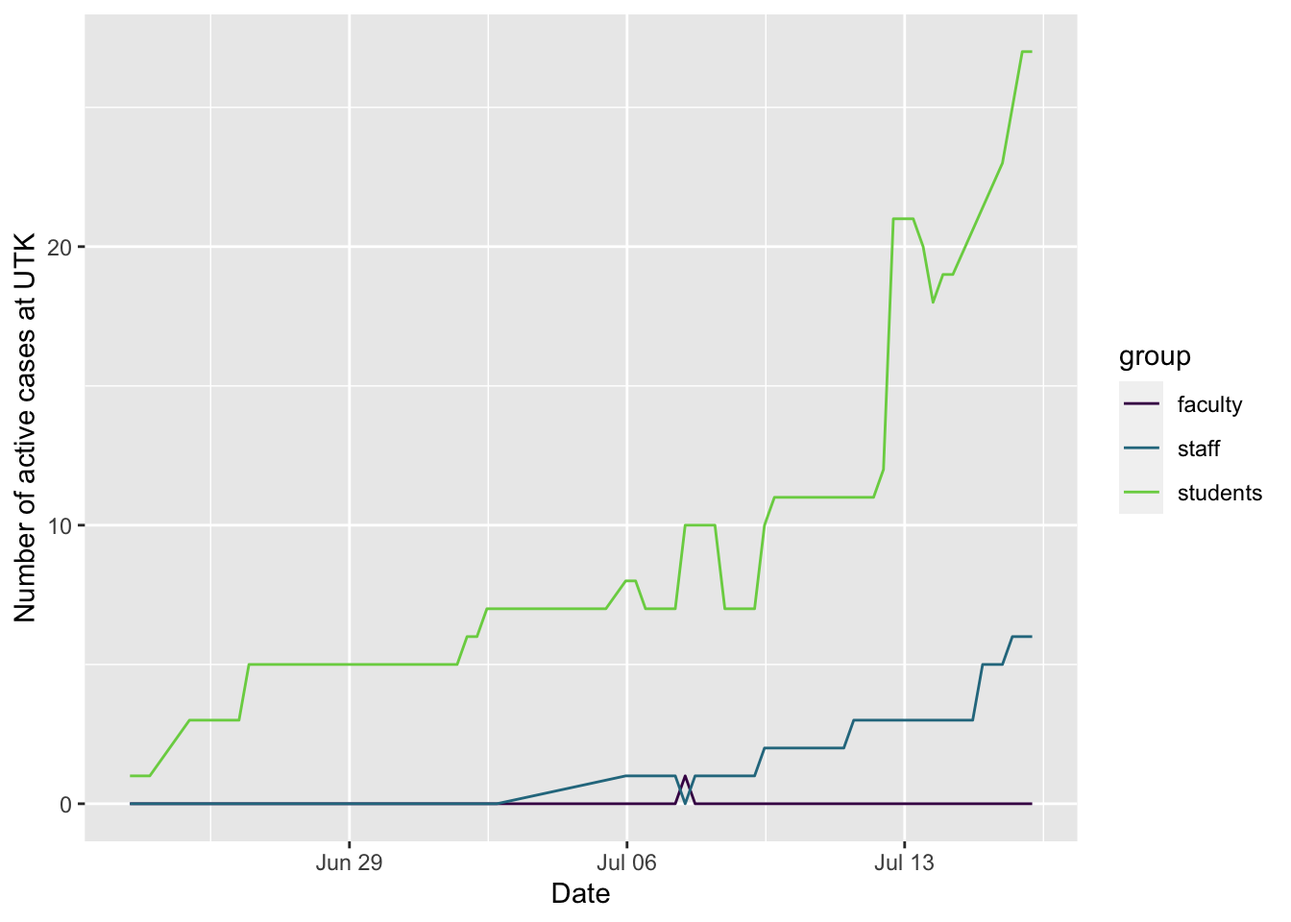
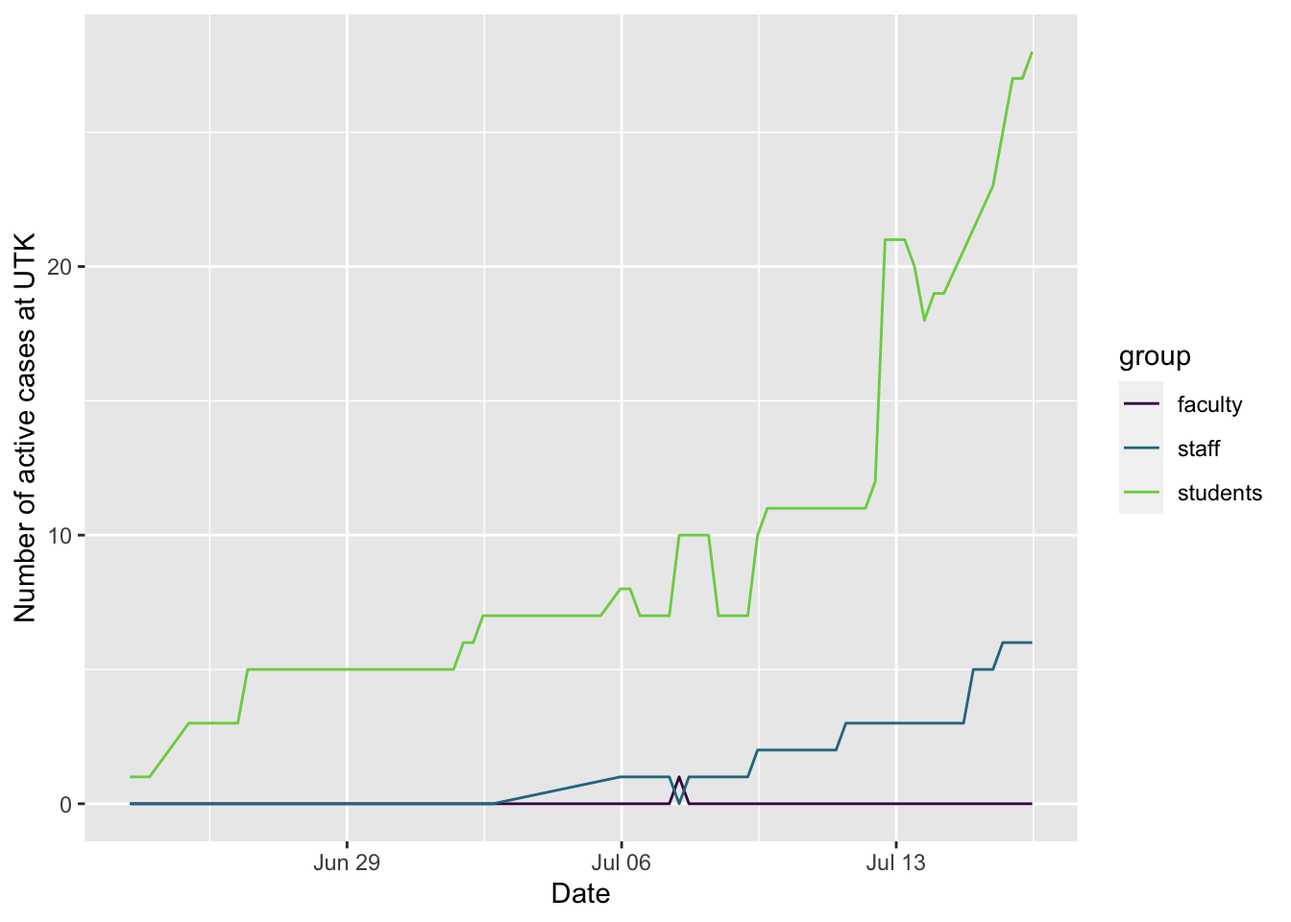
updating site

diff --git a/docs/general.html b/docs/general.html
@@ -13,7 +13,6 @@
 
 <title>General</title>
 
-<script src="site_libs/header-attrs-2.2/header-attrs.js"></script>
 <script src="site_libs/jquery-1.11.3/jquery.min.js"></script>
 <meta name="viewport" content="width=device-width, initial-scale=1" />
 <link href="site_libs/bootstrap-3.3.5/css/bootstrap.min.css" rel="stylesheet" />
@@ -402,7 +401,7 @@ $(document).ready(function () {
 <h2>Research</h2>
 <p>A major duty of a science professor, especially at a research-intensive place like U. of Tennessee, Knoxville, is to expand human knowledge through her or his research efforts. I work in a variety of areas to do this.</p>
 <ul>
-<li><p><strong>Species discovery</strong>: One area is figuring out how many species are actually present within a group. We often think of new species being discovered by, say, <a href="https://en.wikipedia.org/wiki/Marjorie_Courtenay-Latimer#Discovery_of_the_coelacanth">an astute observer seeing a weird fish in a market</a>, or on an expedition to a remote area of the jungle, but in fact many new species are discovered as a result of data showing that what we thought was one species was actually two different species with limited or no interbreeding: see examples of <a href="http://voices.nationalgeographic.com/2013/12/20/new-species-animals-tapir-brazil/">tapirs</a> or even <a href="http://news.nationalgeographic.com/news/2010/12/101222-african-elephants-two-species-new-science/">African elephants</a>. I develop some of the techniques we use to make these discoveries. This matters for basic biology: it is hard for scientists to communicate information without having names for biologically meaningful groups, and it is important to understand what leads to and maintains separate groups, but it also matters in the applied area: it is hard to conserve species properly if we do not recognize what they are (we might wipe out a species that we didn’t realize was independent, or might devote resources to saving a "species’ that is actually just a variant of a common species and lose another species due to finite resources).</p></li>
+<li><p><strong>Species discovery</strong>: One area is figuring out how many species are actually present within a group. We often think of new species being discovered by, say, <a href="https://en.wikipedia.org/wiki/Marjorie_Courtenay-Latimer#Discovery_of_the_coelacanth">an astute observer seeing a weird fish in a market</a>, or on an expedition to a remote area of the jungle, but in fact many new species are discovered as a result of data showing that what we thought was one species was actually two different species with limited or no interbreeding: see examples of <a href="http://voices.nationalgeographic.com/2013/12/20/new-species-animals-tapir-brazil/">tapirs</a> or even <a href="http://news.nationalgeographic.com/news/2010/12/101222-african-elephants-two-species-new-science/">African elephants</a>. I develop some of the techniques we use to make these discoveries. This matters for basic biology: it is hard for scientists to communicate information without having names for biologically meaningful groups, and it is important to understand what leads to and maintains separate groups, but it also matters in the applied area: it is hard to conserve species properly if we do not recognize what they are (we might wipe out a species that we didn’t realize was independent, or might devote resources to saving a &quot;species’ that is actually just a variant of a common species and lose another species due to finite resources).</p></li>
 <li><p>I also develop methods for <strong>looking at past history of life</strong>. For example, we have methods that can give information about how species have multiplied through time: do they exchange genes for a long time, has their population crashed at some point in the past, etc. This helps us understand how the current world came to be, but also may be useful in predicting what will happen as life and the environment continue to change.</p></li>
 <li><p>One major research focus has been developing approaches for looking at <strong>how and why traits change over time</strong>. For example, if you look in many environments you see more flowering plants than nonflowering plants like pines and ferns – why is this? Or questions like, once most of the dinosaurs (birds survived) went extinct, did mammals’ body size rapidly increase or was it gradual?</p></li>
 <li><p>One way I accomplish my research goals, as well as help others, is by <strong>writing software</strong>. It’s one thing to have an idea of how to solve a problem, but if you write a program to do this, then you and others can actually use the method to solve a problem. My software is free and open source. This means anyone can use it without paying me money (which makes sense, as my work has already been directly or indirectly paid for by taxpayers). It also means that anyone can look inside the software to see how it works. For example, <a href="https://github.com/bomeara/brownie/blob/master/brownie.cpp">here</a> is an example of some of the code I wrote as a grad student; you can see how people have used it by looking at <a href="https://scholar.google.com/scholar?oi=bibs&amp;hl=en&amp;cites=9860338757215931909">the hundreds of articles that cite it</a> (though some are citing just the method, not using the software itself). Another important aspect of open source software is that not only can you look at it, you can build on it to make new software, without needing my permission, as long as you make it clear that you’re reusing my software, give appropriate credit, and release your software under the same rules (allowing reuse, showing the code, etc.). Building on others’ work, while giving them credit, is one of the key ways science advances. Making software open also lets others check for errors and try to reproduce studies.</p></li>

diff --git a/docs/covid.html b/docs/covid.html
@@ -14,7 +14,6 @@
 
 <title>Local COVID data</title>
 
-<script src="site_libs/header-attrs-2.2/header-attrs.js"></script>
 <script src="site_libs/jquery-1.11.3/jquery.min.js"></script>
 <meta name="viewport" content="width=device-width, initial-scale=1" />
 <link href="site_libs/bootstrap-3.3.5/css/bootstrap.min.css" rel="stylesheet" />
@@ -412,7 +411,7 @@ $(document).ready(function () {
 <li><a href="https://projects.propublica.org/reopening-america/">ProPublica’s tracker of state status</a>. Click on the play button below their map to see how rates are changing over time, and dig into info on your state.</li>
 </ul>
 <hr />
-<p>Here are some plots, created in R using data from <a href="https://covid19datahub.io" class="uri">https://covid19datahub.io</a> (Guidotti, E., Ardia, D., (2020), “COVID-19 Data Hub”, Working paper, doi: 10.13140/RG.2.2.11649.81763), as well as information from Google and the <a href="https://www.tn.gov/health/cedep/ncov/data/downloadable-datasets.html">state of Tennessee dataset page</a> and plotting and analysis using the <code>forecast</code>, <code>ggplot2</code>, <code>reshape2</code>, and <code>dplyr</code> packages. It also uses the <a href="https://github.com/mtna/rds-r">rds-r</a> package from <a href="https://www.richdataservices.com/" class="uri">https://www.richdataservices.com/</a>. Plots created on 2020-07-16 10:50:12. I use <code>ggplot2</code>’s <code>geom_smooth()</code> function for the smoothed regression plots with its default formula, which uses loess smoothing for this many points. This is not based on a model of disease spread or anything similarly sophisticated, just drawing a smooth curve to summarize noisy points (see <a href="https://www.itl.nist.gov/div898/handbook/pmd/section1/pmd144.htm">here</a> for more details).</p>
+<p>Here are some plots, created in R using data from <a href="https://covid19datahub.io" class="uri">https://covid19datahub.io</a> (Guidotti, E., Ardia, D., (2020), “COVID-19 Data Hub”, Working paper, doi: 10.13140/RG.2.2.11649.81763), as well as information from Google and the <a href="https://www.tn.gov/health/cedep/ncov/data/downloadable-datasets.html">state of Tennessee dataset page</a> and plotting and analysis using the <code>forecast</code>, <code>ggplot2</code>, <code>reshape2</code>, and <code>dplyr</code> packages. It also uses the <a href="https://github.com/mtna/rds-r">rds-r</a> package from <a href="https://www.richdataservices.com/" class="uri">https://www.richdataservices.com/</a>. Plots created on 2020-07-16 12:34:03. I use <code>ggplot2</code>’s <code>geom_smooth()</code> function for the smoothed regression plots with its default formula, which uses loess smoothing for this many points. This is not based on a model of disease spread or anything similarly sophisticated, just drawing a smooth curve to summarize noisy points (see <a href="https://www.itl.nist.gov/div898/handbook/pmd/section1/pmd144.htm">here</a> for more details).</p>
 <p>The number of new and active cases should be not be going up if things are well-controlled, and ideally should be going down. The number of active cases is the number of positive cases minus the total of recovered or deceased cases: note it is from those tested and shown to be positive, but there are likely more people with covid who have not been tested. This uses data from <a href="https://www.tn.gov/health/cedep/ncov/data/downloadable-datasets.html" class="uri">https://www.tn.gov/health/cedep/ncov/data/downloadable-datasets.html</a>. Note that the number of active cases in Knox County reported by the state differs from the <a href="https://covid.knoxcountytn.gov/case-count.html#covid_data">county website</a>, sometimes dramatically (on June 16, the county website said 102 active cases, while the state says 178, for example) – I suspect this is based on the number of recovered cases not being updated as quickly in the state data, but I do not know. Knox County does not seem to offer a download of their data through time, so I am using the state’s data. The number of new cases per day seems to align fairly well, but not perfectly, between the state and county data, too.</p>
 <p>I plot three regions</p>
 <ul>
@@ -428,6 +427,11 @@ $(document).ready(function () {
 <p><img src="covid_files/figure-html/plotsB2-1.png" width="672" /></p>
 <p>Another way to look at testing (or disease spread) is to look at the proportion of positive tests (“positivity rate”): they can go up if a greater proportion of symptomatic people are being tested and/or if the frequency of the disease is increasing. Updated WHO guidelines recommend testing should be 5% positive or lower (black line).</p>
 <p><img src="covid_files/figure-html/plotsB3-1.png" width="672" /></p>
+<hr />
+<h2>
+Schooling
+</h2>
+<p>Many of the local schools are adopting a hybrid approach, where families can choose whether to send their kids to school or do online learning (sometimes with reduced options). The <i>New York Times</i> <a href="https://www.nytimes.com/2020/07/14/us/coronavirus-schools-fall.html">reports</a> on July 14, 2020, that, “As education leaders decide whether to reopen classrooms in the fall amid a raging pandemic, many are looking to a standard generally agreed upon among epidemiologists: To control community spread of the coronavirus, the average daily infection rate among those who are tested should not exceed 5 percent.” Many districts nationally are not hitting that goal, but a question is whether local ones will. The first district to open in our area will be Oak Ridge public schools, who have a start date for students in person on July 29, 2020. Following the procedure of the <i>NYT</i>’s article, I am plotting the seven day average of positivity rate for tests for the counties including Oak Ridge (Roane and Anderson).</p>
 <hr />
 <h2>
 Hospitalization

diff --git a/docs/publications.html b/docs/publications.html
@@ -13,7 +13,6 @@
 
 <title>publications.utf8</title>
 
-<script src="site_libs/header-attrs-2.2/header-attrs.js"></script>
 <script src="site_libs/jquery-1.11.3/jquery.min.js"></script>
 <meta name="viewport" content="width=device-width, initial-scale=1" />
 <link href="site_libs/bootstrap-3.3.5/css/bootstrap.min.css" rel="stylesheet" />
@@ -398,7 +397,7 @@ $(document).ready(function () {
 
 <div id="publications" class="section level2">
 <h2>Publications</h2>
-<p>I would recommend reading a few of my best papers to get a sense of my work; good examples are <a href="https://doi.org/10.1098/rspb.2015.2304">O’Meara, Smith, et al. (2016)</a> and <a href="https://doi.org/10.1093/sysbio/syw022">Beaulieu &amp; O’Meara (2016)</a>. Metrics are not as great (for example, my work with software might get cited than someone else’s work on a new discovery about evolution, but it is not clear that the former is ‘better’) , but I know some people find them useful, so: According to Google Scholar, my work has been cited 4730 times, and my h-index is 27. (Google Scholar tends to overestimate citations, however). If there were a journal of just my papers, its 2019 impact factor would be 7.75. Also note that I work under a very stringent criterion for when I get authorship – I have to actively make a significant contribution to the research and writing to merit authorship. For example, in 2015-6, three lab members had papers in <em>Science</em> (<a href="http://science.sciencemag.org/content/350/6264/1077.long">grad student Sam Borstein</a>, <a href="http://science.sciencemag.org/content/351/6268/28">postdoc Nick Matzke</a>, and <a href="http://science.sciencemag.org/content/353/6295/154.full">postdoc Sandy Kawano</a>) but I am, appropriately to my mind, not an author on any of these.</p>
+<p>I would recommend reading a few of my best papers to get a sense of my work; good examples are <a href="https://doi.org/10.1098/rspb.2015.2304">O’Meara, Smith, et al. (2016)</a> and <a href="https://doi.org/10.1093/sysbio/syw022">Beaulieu &amp; O’Meara (2016)</a>. Metrics are not as great (for example, my work with software might get cited than someone else’s work on a new discovery about evolution, but it is not clear that the former is ‘better’) , but I know some people find them useful, so: According to Google Scholar, my work has been cited 4730 times, and my h-index is 27. (Google Scholar tends to overestimate citations, however). If there were a journal of just my papers, its 2019 impact factor would be 7.75. Also note that I work under a very stringent criterion for when I get authorship – I have to actively make a significant contribution to the research and writing to merit authorship. For example, in 2015-6, three lab members had papers in <em>Science</em> (<a href="http://science.sciencemag.org/content/350/6264/1077.long">grad student Sam Borstein</a>, <a href="http://science.sciencemag.org/content/351/6268/28">postdoc Nick Matzke</a>, and <a href="http://science.sciencemag.org/content/353/6295/154.full">postdoc Sandy Kawano</a>) but I am, appropriately to my mind, not an author on any of these.</p>
 <div id="papers" class="section level3">
 <h3>Papers</h3>
 <table>
@@ -828,7 +827,7 @@ $(document).ready(function () {
 </tr>
 <tr class="odd">
 <td>phylobase</td>
-<td>R Hackathon et al. (alphabetically: Ben Bolker, Marguerite Butler, Peter Cowan, Damien de Vienne, Dirk Eddelbuettel, Mark Holder, Thibaut, Jombart, Steve Kembel, Francois Michonneau, David Orme, Brian O’Meara, Emmanuel Paradis, Jim Regetz, Derrick Zwickl)</td>
+<td>R Hackathon et al. (alphabetically: Ben Bolker, Marguerite Butler, Peter Cowan, Damien de Vienne, Dirk Eddelbuettel, Mark Holder, Thibaut, Jombart, Steve Kembel, Francois Michonneau, David Orme, Brian O’Meara, Emmanuel Paradis, Jim Regetz, Derrick Zwickl)</td>
 <td>Base Package for Phylogenetic Structures and Comparative Data</td>
 <td>133383</td>
 </tr>

diff --git a/docs/cv.html b/docs/cv.html
@@ -13,7 +13,6 @@
 
 <title>CV</title>
 
-<script src="site_libs/header-attrs-2.2/header-attrs.js"></script>
 <script src="site_libs/jquery-1.11.3/jquery.min.js"></script>
 <meta name="viewport" content="width=device-width, initial-scale=1" />
 <link href="site_libs/bootstrap-3.3.5/css/bootstrap.min.css" rel="stylesheet" />
@@ -459,7 +458,7 @@ $(document).ready(function () {
 </div>
 <div id="publications" class="section level2">
 <h2>Publications</h2>
-<p>I would recommend reading a few of my best papers to get a sense of my work; good examples are <a href="https://doi.org/10.1098/rspb.2015.2304">O’Meara, Smith, et al. (2016)</a> and <a href="https://doi.org/10.1093/sysbio/syw022">Beaulieu &amp; O’Meara (2016)</a>. Metrics are not as great (for example, my work with software might get cited than someone else’s work on a new discovery about evolution, but it is not clear that the former is ‘better’) , but I know some people find them useful, so: According to Google Scholar, my work has been cited 4730 times, and my h-index is 27. (Google Scholar tends to overestimate citations, however). If there were a journal of just my papers, its 2019 impact factor would be 7.75. Also note that I work under a very stringent criterion for when I get authorship – I have to actively make a significant contribution to the research and writing to merit authorship. For example, in 2015-6, three lab members had papers in <em>Science</em> (<a href="http://science.sciencemag.org/content/350/6264/1077.long">grad student Sam Borstein</a>, <a href="http://science.sciencemag.org/content/351/6268/28">postdoc Nick Matzke</a>, and <a href="http://science.sciencemag.org/content/353/6295/154.full">postdoc Sandy Kawano</a>) but I am, appropriately to my mind, not an author on any of these.</p>
+<p>I would recommend reading a few of my best papers to get a sense of my work; good examples are <a href="https://doi.org/10.1098/rspb.2015.2304">O’Meara, Smith, et al. (2016)</a> and <a href="https://doi.org/10.1093/sysbio/syw022">Beaulieu &amp; O’Meara (2016)</a>. Metrics are not as great (for example, my work with software might get cited than someone else’s work on a new discovery about evolution, but it is not clear that the former is ‘better’) , but I know some people find them useful, so: According to Google Scholar, my work has been cited 4730 times, and my h-index is 27. (Google Scholar tends to overestimate citations, however). If there were a journal of just my papers, its 2019 impact factor would be 7.75. Also note that I work under a very stringent criterion for when I get authorship – I have to actively make a significant contribution to the research and writing to merit authorship. For example, in 2015-6, three lab members had papers in <em>Science</em> (<a href="http://science.sciencemag.org/content/350/6264/1077.long">grad student Sam Borstein</a>, <a href="http://science.sciencemag.org/content/351/6268/28">postdoc Nick Matzke</a>, and <a href="http://science.sciencemag.org/content/353/6295/154.full">postdoc Sandy Kawano</a>) but I am, appropriately to my mind, not an author on any of these.</p>
 <div id="papers" class="section level3">
 <h3>Papers</h3>
 <table>
@@ -889,7 +888,7 @@ $(document).ready(function () {
 </tr>
 <tr class="odd">
 <td>phylobase</td>
-<td>R Hackathon et al. (alphabetically: Ben Bolker, Marguerite Butler, Peter Cowan, Damien de Vienne, Dirk Eddelbuettel, Mark Holder, Thibaut, Jombart, Steve Kembel, Francois Michonneau, David Orme, Brian O’Meara, Emmanuel Paradis, Jim Regetz, Derrick Zwickl)</td>
+<td>R Hackathon et al. (alphabetically: Ben Bolker, Marguerite Butler, Peter Cowan, Damien de Vienne, Dirk Eddelbuettel, Mark Holder, Thibaut, Jombart, Steve Kembel, Francois Michonneau, David Orme, Brian O’Meara, Emmanuel Paradis, Jim Regetz, Derrick Zwickl)</td>
 <td>Base Package for Phylogenetic Structures and Comparative Data</td>
 <td>133383</td>
 </tr>

diff --git a/docs/research.html b/docs/research.html
@@ -13,7 +13,6 @@
 
 <title>Research</title>
 
-<script src="site_libs/header-attrs-2.2/header-attrs.js"></script>
 <script src="site_libs/jquery-1.11.3/jquery.min.js"></script>
 <meta name="viewport" content="width=device-width, initial-scale=1" />
 <link href="site_libs/bootstrap-3.3.5/css/bootstrap.min.css" rel="stylesheet" />
@@ -400,7 +399,7 @@ $(document).ready(function () {
 <p>Note you can see a feed of recent articles at <a href="http://scholar.google.com/citations?sortby=pubdate&amp;hl=en&amp;user=vpjEkQwAAAAJ&amp;view_op=list_works">Google Scholar</a>; this updates more quickly than this page does. In the lag time between submission and publication, you can see my manuscripts on <a href="http://biorxiv.org/search/author1%3ABrian%2BO%2527Meara%2B">bioRxiv</a>.</p>
 <div id="trait-evolution" class="section level3">
 <h3>Trait evolution</h3>
-<p>Work in our lab most usually focuses on trait evolution, with most emphasis on methods that allow heterogeneity over the tree. For example, O’Meara et al. (2006) developed a method that allows the rate of Brownian motion to vary over a tree. This can be used to test ideas about rate evolution (Collar et al. 2009; Collar et al. 2010) and has been cited 150 times (according to Google Scholar in Aug. 2012). This work has been extended to deal with shifting rates, strengths of attraction, and means under an Ornstein-Uhlenbeck process (Beaulieu et al. 2012). Similarly, we have developed a model for different rates of gene loss on different parts of a tree (O’Meara 2007) and methods for looking at hidden rates for discrete characters (Beaulieu et al. 2014). A review of methods in general has been published (O’Meara 2012b) where I tried to show connections across methods. We have also looked at empirical datasets, often plants, to understand evolutionary processes (eg., Zanne et al. 2013, Williams et al. 2014, Cornwell et al. 2014).</p>
+<p>Work in our lab most usually focuses on trait evolution, with most emphasis on methods that allow heterogeneity over the tree. For example, O’Meara et al. (2006) developed a method that allows the rate of Brownian motion to vary over a tree. This can be used to test ideas about rate evolution (Collar et al. 2009; Collar et al. 2010) and has been cited 150 times (according to Google Scholar in Aug. 2012). This work has been extended to deal with shifting rates, strengths of attraction, and means under an Ornstein-Uhlenbeck process (Beaulieu et al. 2012). Similarly, we have developed a model for different rates of gene loss on different parts of a tree (O’Meara 2007) and methods for looking at hidden rates for discrete characters (Beaulieu et al. 2014). A review of methods in general has been published (O’Meara 2012b) where I tried to show connections across methods. We have also looked at empirical datasets, often plants, to understand evolutionary processes (eg., Zanne et al. 2013, Williams et al. 2014, Cornwell et al. 2014).</p>
 </div>
 <div id="species-delimitation-gene-tree-species-tree-messiness" class="section level3">
 <h3>Species delimitation / gene tree-species tree messiness</h3>

diff --git a/docs/opportunities.html b/docs/opportunities.html
@@ -13,7 +13,6 @@
 
 <title>Opportunities</title>
 
-<script src="site_libs/header-attrs-2.2/header-attrs.js"></script>
 <script src="site_libs/jquery-1.11.3/jquery.min.js"></script>
 <meta name="viewport" content="width=device-width, initial-scale=1" />
 <link href="site_libs/bootstrap-3.3.5/css/bootstrap.min.css" rel="stylesheet" />
@@ -403,7 +402,7 @@ $(document).ready(function () {
 <p>You might look at <a href="http://brianomeara.info/guidelines.html">lab guidelines</a> to get a sense of how the lab works. Materials I created for <a href="http://brianomeara.info/promotion.html">promotion</a>, especially the promotion packet itself (<a href="http://brianomeara.info/files/OMearaPromotionPacket.pdf">PDF</a>) may give you a good summary of where my teaching, research, and service have been and are going. For what you might learn here, <a href="http://brianomeara.info/learningobjectives.html">learning objectives</a> can be helpful.</p>
 <div id="postdocs" class="section level2">
 <h2>Postdocs</h2>
-<div id="sept.-2019" class="section level3">
+<div id="sept.2019" class="section level3">
 <h3>Sept. 2019</h3>
 <p>There are three postdoc positions. They can be remote or local to Knoxville. In general, the lab is run in such a way that working remotely is fine – lab meetings are virtual for everyone, we have a group chat in slack, we do work through GitHub, etc. It can be good to be here (seminars, social connections with others) but not everyone has the flexibility to move.</p>
 <p>Two are for continuing development of Approximate Bayesian Computation approaches for phylogenetics. We have a method for single continuous traits almost ready (doing final simulations on it now) but we want to extend it to discrete traits, multivariate traits, and more. To apply for this, go to <a href="https://ut.taleo.net/careersection/ut_system/jobdetail.ftl?job=19000001LL&amp;tz=GMT-04%3A00&amp;tzname=America%2FNew_York">here</a>.</p>

diff --git a/docs/index.html b/docs/index.html
@@ -13,7 +13,6 @@
 
 <title>Home</title>
 
-<script src="site_libs/header-attrs-2.2/header-attrs.js"></script>
 <script src="site_libs/jquery-1.11.3/jquery.min.js"></script>
 <meta name="viewport" content="width=device-width, initial-scale=1" />
 <link href="site_libs/bootstrap-3.3.5/css/bootstrap.min.css" rel="stylesheet" />
@@ -32,7 +31,6 @@
 
   gtag('config', 'UA-103450-1');
 </script>
-
 
 <style type="text/css">code{white-space: pre;}</style>
 <style type="text/css">
@@ -410,7 +408,7 @@ $(document).ready(function () {
 <p><em>Most of this website is written for a specialist scientific audience; folks who aren’t scientists are very welcome to look around, but <a href="http://www.brianomeara.info/general">this page</a> might be a more accessible introduction. For a compressed version of information about me, please see my <a href="http://brianomeara.info/cv/">CV</a>.</em> I am a professor at <a href="http://www.utk.edu/">U of Tennessee, Knoxville</a>, in the department of <a href="http://eeb.bio.utk.edu/">Ecology &amp; Evolutionary Biology</a>. In my lab, we develop and apply phylogenetic tools to address evolutionary questions.</p>
 <div style="float:right">
 <div class="figure">
-<img src="hisse.jpg" alt="" />
+<img src="hisse.jpg" alt="HiSSE image" />
 <p class="caption">HiSSE image</p>
 </div>
 </div>
@@ -428,7 +426,7 @@ $(document).ready(function () {
 </ul>
 <div style="float:right">
 <div class="figure">
-<img src="phrapl.gif" alt="" />
+<img src="phrapl.gif" alt="PHRAPL diagram" />
 <p class="caption">PHRAPL diagram</p>
 </div>
 </div>

diff --git a/docs/eeb464.html b/docs/eeb464.html
@@ -13,7 +13,6 @@
 
 <title>Macroevolution (EEB464)</title>
 
-<script src="site_libs/header-attrs-2.2/header-attrs.js"></script>
 <script src="site_libs/jquery-1.11.3/jquery.min.js"></script>
 <meta name="viewport" content="width=device-width, initial-scale=1" />
 <link href="site_libs/bootstrap-3.3.5/css/bootstrap.min.css" rel="stylesheet" />
@@ -1028,7 +1027,7 @@ Grading:</strong></p>
 <p>In addition to these assignments, students will periodically be given articles to read for later discussion. Quizzes or other assignments will assess whether the articles have been read.</p>
 <p>Final letter grades will be assigned at the end of the semester using an instructor-specified scale. I aim for grading consistency across years and with other courses at UTK.</p>
 <div class="figure">
-<img src="FluttershyPhylogeny.jpg" alt="" />
+<img src="FluttershyPhylogeny.jpg" alt="Fluttershy teaching about phylogenetics" />
 <p class="caption">Fluttershy teaching about phylogenetics</p>
 </div>
 <div id="presentations" class="section level4">

diff --git a/docs/useful.html b/docs/useful.html
@@ -13,7 +13,6 @@
 
 <title>Useful links</title>
 
-<script src="site_libs/header-attrs-2.2/header-attrs.js"></script>
 <script src="site_libs/jquery-1.11.3/jquery.min.js"></script>
 <meta name="viewport" content="width=device-width, initial-scale=1" />
 <link href="site_libs/bootstrap-3.3.5/css/bootstrap.min.css" rel="stylesheet" />
@@ -32,7 +31,6 @@
 
   gtag('config', 'UA-103450-1');
 </script>
-
 
 <style type="text/css">code{white-space: pre;}</style>
 <style type="text/css">
@@ -456,7 +454,7 @@ $(document).ready(function () {
 <div id="fun" class="section level2">
 <h2>Fun</h2>
 <div class="figure">
-<img src="https://www.air-resource.net/GRSMNFGap/gsng.jpg" alt="" />
+<img src="https://www.air-resource.net/GRSMNFGap/gsng.jpg" alt="Image from Newfound Gap in the Smokies" />
 <p class="caption">Image from Newfound Gap in the Smokies</p>
 </div>
 <ul>

diff --git a/docs/aic.html b/docs/aic.html
@@ -13,7 +13,6 @@
 
 <title>Model Selection Using the Akaike Information Criterion (AIC)</title>
 
-<script src="site_libs/header-attrs-2.2/header-attrs.js"></script>
 <script src="site_libs/jquery-1.11.3/jquery.min.js"></script>
 <meta name="viewport" content="width=device-width, initial-scale=1" />
 <link href="site_libs/bootstrap-3.3.5/css/bootstrap.min.css" rel="stylesheet" />
@@ -32,7 +31,6 @@
 
   gtag('config', 'UA-103450-1');
 </script>
-
 
 <style type="text/css">code{white-space: pre;}</style>
 <style type="text/css">

diff --git a/docs/SSB.html b/docs/SSB.html
@@ -13,7 +13,6 @@
 
 <title>SSB candidacy</title>
 
-<script src="site_libs/header-attrs-2.2/header-attrs.js"></script>
 <script src="site_libs/jquery-1.11.3/jquery.min.js"></script>
 <meta name="viewport" content="width=device-width, initial-scale=1" />
 <link href="site_libs/bootstrap-3.3.5/css/bootstrap.min.css" rel="stylesheet" />
@@ -32,7 +31,6 @@
 
   gtag('config', 'UA-103450-1');
 </script>
-
 
 <style type="text/css">code{white-space: pre;}</style>
 <style type="text/css">

diff --git a/docs/macsetup.html b/docs/macsetup.html
@@ -13,7 +13,6 @@
 
 <title>New Mac setup</title>
 
-<script src="site_libs/header-attrs-2.2/header-attrs.js"></script>
 <script src="site_libs/jquery-1.11.3/jquery.min.js"></script>
 <meta name="viewport" content="width=device-width, initial-scale=1" />
 <link href="site_libs/bootstrap-3.3.5/css/bootstrap.min.css" rel="stylesheet" />
@@ -32,7 +31,6 @@
 
   gtag('config', 'UA-103450-1');
 </script>
-
 
 <style type="text/css">code{white-space: pre;}</style>
 <style type="text/css">
